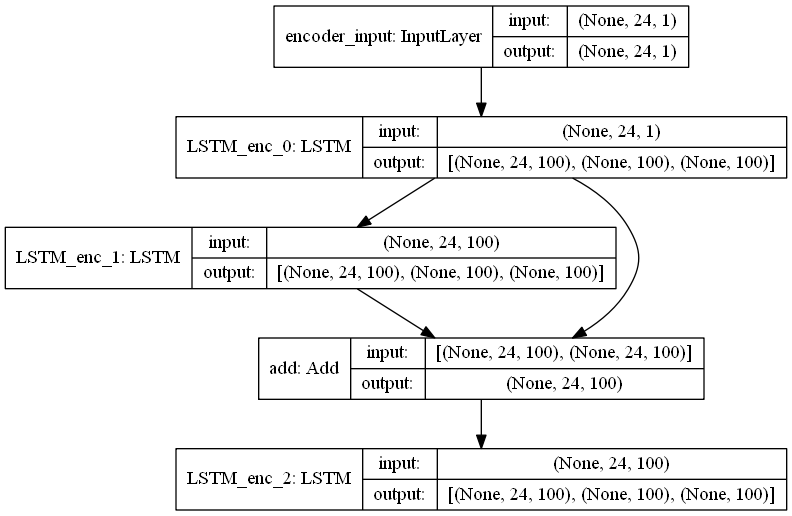
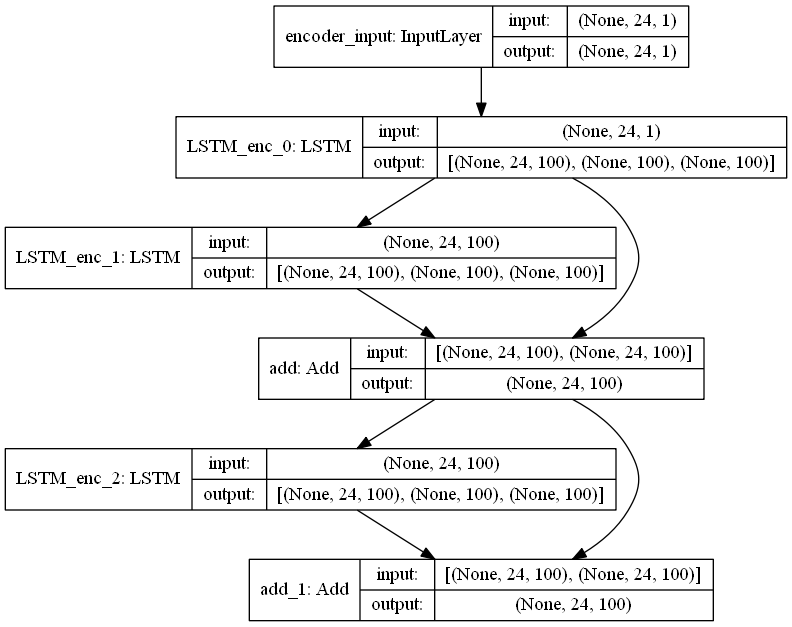
fix _predict

Changed region(s): [[0.0, 0.0, 1.0, 0.9922]]

diff --git a/model/att_res_seq2seq_supervisor.py b/model/att_res_seq2seq_supervisor.py
@@ -152,7 +152,7 @@ class AttentionResidualSeq2SeqSupervisor():
                                                                      rnn_depth=self._rnn_layers,
                                                                      rnn_dropout=self._drop_out)
             encoder_states = [enc_state_h, enc_state_c]
-            self.encoder_model = Model(encoder_inputs, encoder_states)
+            self.encoder_model = Model(encoder_inputs, [encoder_outputs] + encoder_states)
             plot_model(model=self.encoder_model, to_file=self._log_dir + '/encoder.png', show_shapes=True)
 
             # --------------------------------------- Decoder model ----------------------------------------------------
@@ -258,18 +258,12 @@ class AttentionResidualSeq2SeqSupervisor():
         utils.save_metrics(error_list, self._log_dir, self._alg_name)
 
     def _predict(self, source):
-        states_value = self.encoder_model.predict(source)
+        output = self.encoder_model.predict(source)
+        encoder_inf_state_input = output[0]
+        states_value = output[1:]
         # Generate empty target sequence of length 1.
         target_seq = np.zeros((1, 1, self._output_dim))
 
-        # model to get encoder_inf_state_input
-        input = Input(shape=(self._seq_len, self._input_dim))
-        encoder_inf_states, _, _ = Residual_enc(input, rnn_unit=self._rnn_units,
-                                                                    rnn_depth=self._rnn_layers,
-                                                                    rnn_dropout=self._drop_out)
-        model_predict = Model(inputs=input, outputs=[encoder_inf_states])
-
-        encoder_inf_state_input = model_predict.predict(source)
         yhat = np.zeros(shape=(self._horizon + 1, 1),
                         dtype='float32')
         for i in range(self._horizon + 1):
